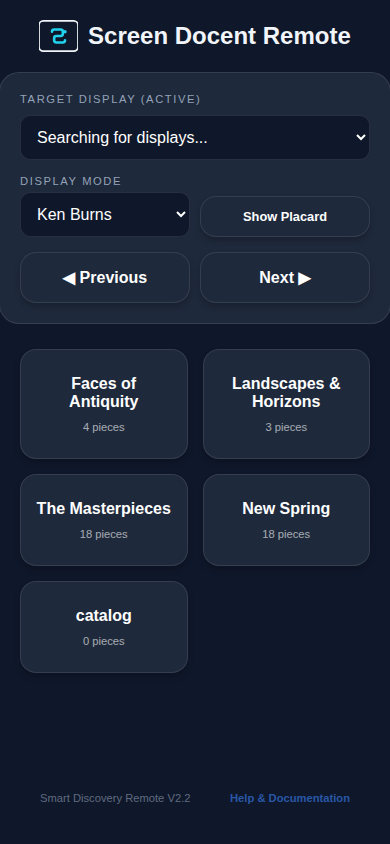
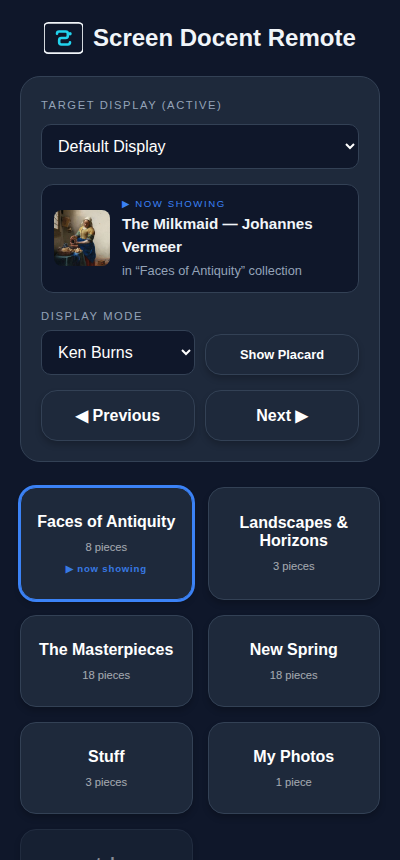
docs: launch-ready polish — refresh screenshots, rebrand, license, badges
Screenshots recaptured against the current design-system UI (verified rendering
via a disk-served uvicorn, since the running container serves baked-in static):
- library.png, ai-engine.png, remote.png (now shows a live now-playing target)
- catalog-add.gif + admin-tour.gif rebuilt (old admin-tour showed the stale
  PLAYLISTS UI); display.png kept (placard unchanged); orphan discover.png removed.

Doc polish:
- Rebrand: FastAPI title + app.py/models.py docstrings "Artwork Display Engine"
  -> "Screen Docent".
- README badges: CI / Sources / GPLv3.
- MMM-ScreenDocent module license MIT -> GPL-3.0 (single source of truth).

Note: static is baked into the app image, so refreshed doc images appear in the
running app / Pi appliance only after an image rebuild.

diff --git a/app.py b/app.py
@@ -1,6 +1,6 @@
 #!/usr/bin/env python3
 """
-FastAPI Backend for the Artwork Display Engine.
+FastAPI Backend for Screen Docent.
 Phase 4: Targeted WebSocket Routing for Multiple Displays.
 """
 
@@ -115,7 +115,7 @@ from routers.studio import PERSONAL_PLAYLIST_NAME  # noqa: F401  — re-exported
 from routers.studio import router as studio_router
 from routers.ws import router as ws_router
 
-app = FastAPI(title="Artwork Display Engine API", version="0.4.5", lifespan=lifespan)
+app = FastAPI(title="Screen Docent", version="0.4.5", lifespan=lifespan)
 
 # Leaf domain routers (Phase 1 + Phase 2 + Phase 3 + Phase 4 of the app-split refactor — see
 # .ai/refactor_app_split_plan.md).

diff --git a/models.py b/models.py
@@ -1,5 +1,5 @@
 """
-SQLAlchemy models for the Artwork Display Engine.
+SQLAlchemy models for Screen Docent.
 Phase 3: Many-to-Many relationship between Playlists and Artworks.
 """
 

diff --git a/README.md b/README.md
@@ -1,5 +1,9 @@
 # 🖼 Screen Docent
 
+[![CI](https://github.com/AiwendilInTheWoods/Screen-Docent/actions/workflows/pytest.yml/badge.svg)](https://github.com/AiwendilInTheWoods/Screen-Docent/actions/workflows/pytest.yml)
+[![Sources](https://github.com/AiwendilInTheWoods/Screen-Docent/actions/workflows/verify-sources.yml/badge.svg)](https://github.com/AiwendilInTheWoods/Screen-Docent/actions/workflows/verify-sources.yml)
+[![License: GPL v3](https://img.shields.io/badge/License-GPLv3-blue.svg)](LICENSE)
+
 **Screen Docent** is an open-source, AI-powered digital art curator and signage platform. It transforms any TV or monitor into a high-end museum display, complete with autonomous artwork analysis, intelligent metadata generation, and instant mobile remote control.
 
 ![A Screen Docent display showing Vermeer's The Milkmaid with an auto-generated museum placard](static/docs/display.png)

diff --git a/integrations/MMM-ScreenDocent/README.md b/integrations/MMM-ScreenDocent/README.md
@@ -83,4 +83,4 @@ If the server is briefly unreachable, the module keeps showing the last artwork 
 
 ## License
 
-MIT — part of the [Screen Docent](https://github.com/AiwendilInTheWoods/Screen-Docent) project.
+GPL-3.0 — part of the [Screen Docent](https://github.com/AiwendilInTheWoods/Screen-Docent) project.
